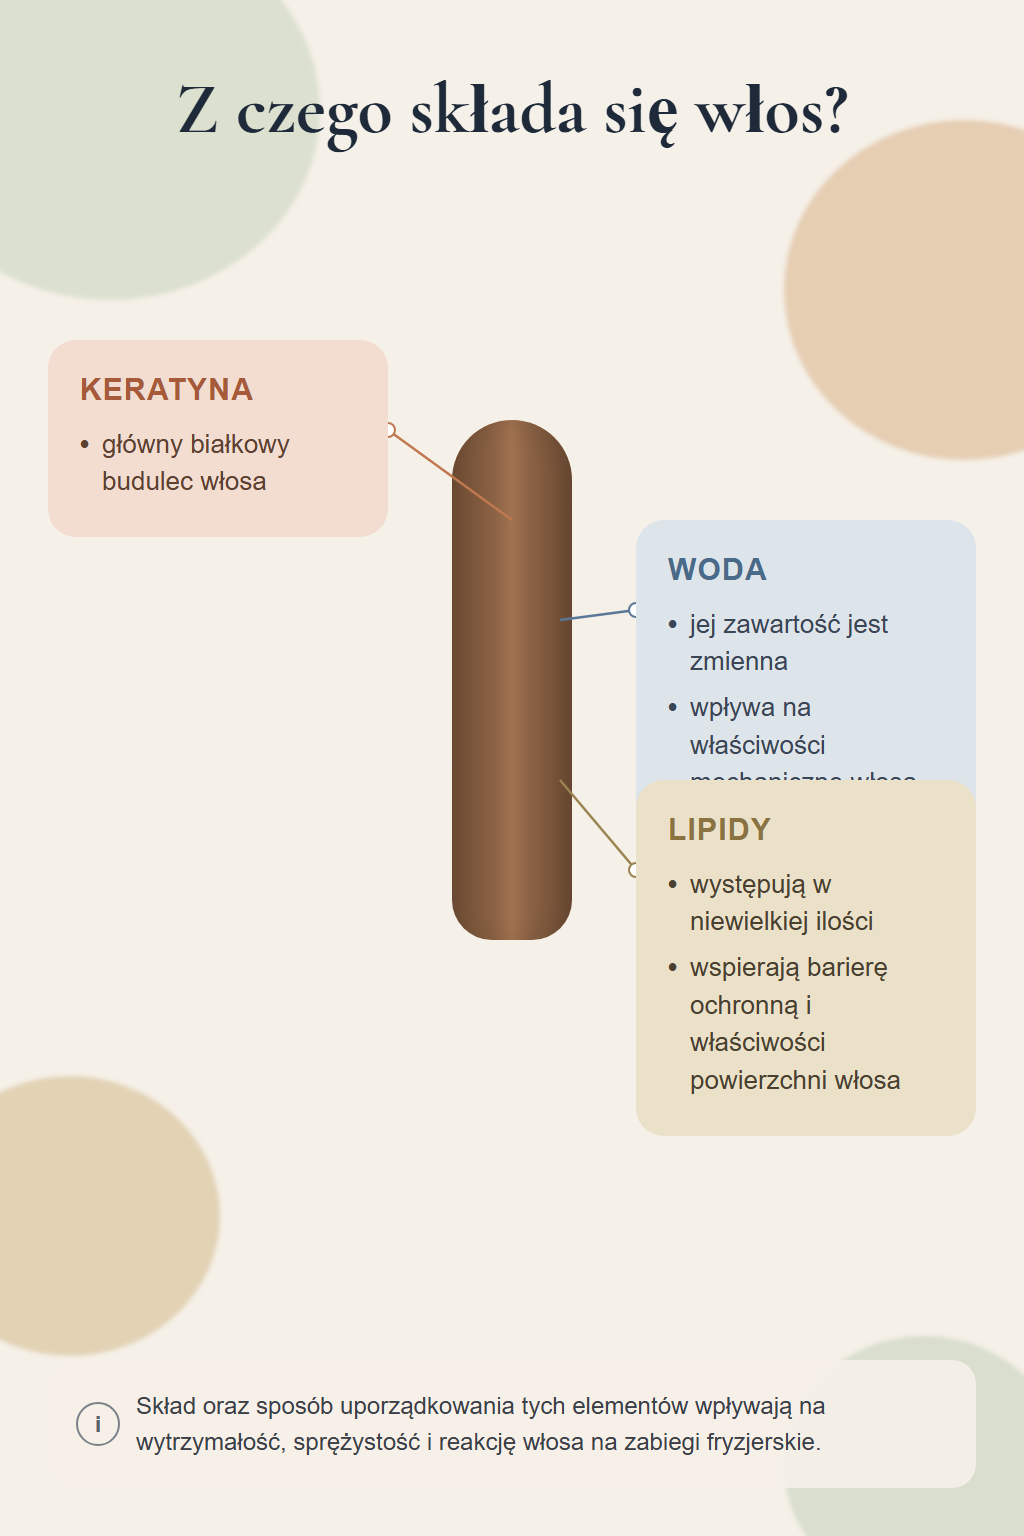
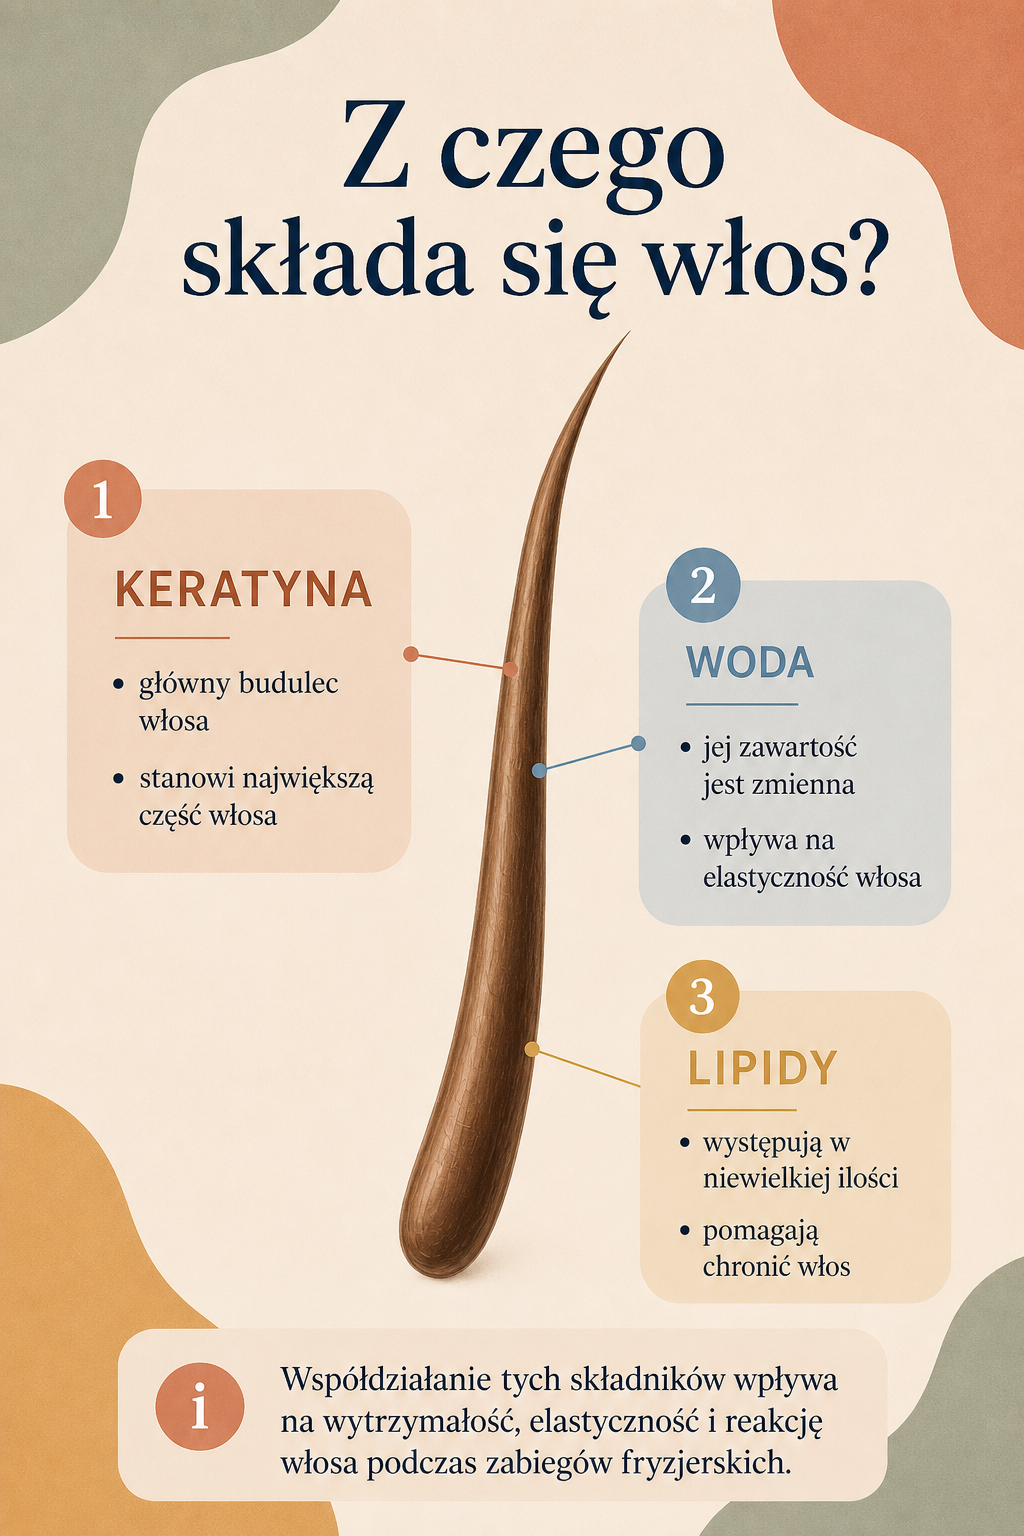
fix: restore hair composition board for L1 lesson
Replace the simplified cylinder graphic in assets/images/hair-composition.png
with the numbered editorial board (keratyna / woda / lipidy) for
„Z czego składa się włos?”. Also revert the unrelated auth logo swap.

diff --git a/css/styles.css b/css/styles.css
@@ -822,8 +822,7 @@ body{font-family:'Inter',sans-serif;background:#D45A94;color:var(--ink);min-heig
   border:1.5px solid var(--line);box-shadow:var(--shadow-card);
 }
 .auth-brand{display:flex;flex-direction:column;align-items:center;gap:10px;margin-bottom:14px;text-align:center;}
-/* Brama auth: motyw oka (docs/UI_COMPONENTS.md) — nie złote logo NF */
-.auth-brand img,.auth-brand .eye-motif--auth{width:88px;height:auto;display:block;}
+.auth-brand img,.auth-brand .nf-logo{width:104px;height:auto;display:block;}
 .auth-brand h2{font-family:'Poppins';font-weight:700;font-size:20px;color:var(--navy);line-height:1.2;}
 .auth-brand p{font-size:13px;color:var(--ink-muted);line-height:1.45;max-width:280px;}
 .auth-tabs{display:flex;gap:6px;margin-bottom:14px;}

diff --git a/index.html b/index.html
@@ -294,7 +294,7 @@
     <div class="auth-gate" id="authGate" hidden>
       <div class="auth-sheet" role="dialog" aria-labelledby="authTitle" aria-modal="true">
         <div class="auth-brand">
-          <img class="eye-motif eye-motif--auth" src="assets/images/eye-motif-brand.png" alt="" width="88" height="132" decoding="async">
+          <img class="nf-logo" src="assets/images/nf-logo-gold.png" alt="Nowa Fala" width="104" height="89" decoding="async">
           <h2 id="authTitle">Akademia Nowej Fali</h2>
           <p>Załóż konto, aby zapisać postęp. Nowe konto startuje z 0 Kosmykami.</p>
         </div>

diff --git a/docs/UI_COMPONENTS.md b/docs/UI_COMPONENTS.md
@@ -72,12 +72,10 @@ Geometryczne, płaskie oko Mid-Century — **nie** logo, **nie** maskotka.
 - Home (hero);
 - Profil (hero, półprzezroczysty);
 - Gablotka (hero);
-- brama logowania / rejestracji (`eye-motif-brand.png` — **nie** złote logo NF);
+- brama logowania / rejestracji;
 - ekran ukończenia lekcji (PNG);
 - „Wskazówka eksperta” (kompaktowy SVG);
 - karta / motyw modułu (SVG dekoracyjny).
-
-**Logo marki (osobno):** złote `assets/images/nf-logo-gold.png` — Home i Profil jako znak „Nowa Fala”. Na bramie auth zostaje oko.
 
 **Zasady:** rozpoznawalny branding, nie dominuje ekranu; animacja mrugnięcia wyłącznie przy nagrodzie.
 

diff --git a/docs/modules/WLOS_WIAZANIA_TEORIA_KOLORU.md b/docs/modules/WLOS_WIAZANIA_TEORIA_KOLORU.md
@@ -212,7 +212,7 @@ Plik `assets/images/wlos-ph.jpg` (JPEG) — moduł pH, bez zmian.
 
 | Lekcja | Ilustracja preferowana | Alternatywy | Uzasadnienie |
 |--------|------------------------|-------------|--------------|
-| **L1** `wlos-z-czego-sklada-sie` | `hair-composition.png` | — | Plansza referencyjna stylu projektu. **Poprawiona 15 lipca 2026** — bez sztywnych procentów; keratyna jako główny białkowy budulec; woda zmienna; lipidy = bariera i powierzchnia. |
+| **L1** `wlos-z-czego-sklada-sie` | `hair-composition.png` | — | Plansza referencyjna stylu projektu. **Odświeżona 21 lipca 2026** — realistyczny włos + karty 1–3; bez sztywnych procentów; keratyna = główny budulec; woda zmienna; lipidy chronią włos. |
 | **L2** `wlos-oslonka-kora-rdzen` | `hair-layers.png` | — | Schemat trzech warstw łodygi. **Poprawiona 15 lipca 2026** — usunięto dekoracje; dopisano brak rdzenia u każdego włosa. |
 | **L3** `wlos-keratyna-rusztowanie` | `hair-fibrous-keratin.png` | — | **Poprawiona 15 lipca 2026** — spiralne łańcuchy → włókna keratynowe; białka towarzyszące; model uproszczony. |
 